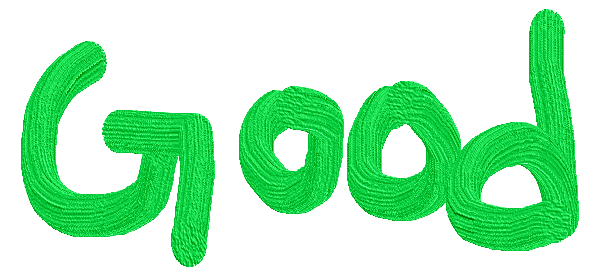
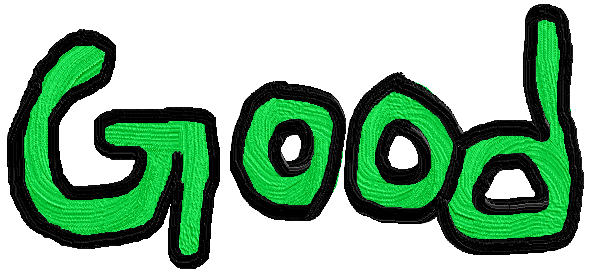
Update Score texture and add HP in Level 0,1,2,3

Changed region(s): [[0.0, 0.0, 0.9917, 0.9855]]

diff --git a/BIT_SAVER/Game/Levels/Level2.cpp b/BIT_SAVER/Game/Levels/Level2.cpp
@@ -17,6 +17,7 @@ Author: Jaewoo.choi, Hyun Kang
 #include"../Objects/Background.h"
 #include"../Levels/State.h"
 #include "../Objects/EnergyBar.h"
+#include "../Objects/EnergyBarContainer.h"
 #include "../Objects/stage_bar.h"
 #include"../../Engine/Sprite/GameParticles.h"
 #include"../Objects/Score.h"
@@ -36,6 +37,7 @@ Level2::Level2() :
 	notebox = nullptr;
 	backPtr = nullptr;
 	energyBar = nullptr;
+	energyBarContainer = nullptr;
 	stageBar = nullptr;
 	feverBar = nullptr;
 	PcheckBox1 = nullptr;
@@ -56,7 +58,8 @@ void Level2::Load()
 	trackPtr = new Track(SOUND_NUM::DIOMA);
 	notebox = new Note_box({ -4,0 });
 	bossPtr = new Boss({ 15,-5 });
-	energyBar = new EnergyBar({ -4,1.2 });
+	energyBar = new EnergyBar({ -7.5,7.5 });
+	energyBarContainer = new EnergyBarContainer({ -7.5,7.5 });
 	camera = new Camera({ 0,0 });
 	PcheckBox1 = new CheckBox({ -4.4,0 }, 0);
 	PcheckBox2 = new CheckBox({ -3.2,0 }, 0);
@@ -85,6 +88,7 @@ void Level2::Load()
 	gameObjectManager->Add(notebox);
 	gameObjectManager->Add(bossPtr);
 	gameObjectManager->Add(energyBar);
+	gameObjectManager->Add(energyBarContainer);
 
 	gameObjectManager->Add(PcheckBox1);
 	gameObjectManager->Add(PcheckBox2);
@@ -176,6 +180,7 @@ void Level2::Unload()
 	bossPtr = nullptr;
 	backPtr = nullptr;
 	energyBar = nullptr;
+	energyBarContainer = nullptr;
 	stageBar = nullptr;
 	gameObjectManager->Unload();
 	if (Engine::GetMusic().isPlaying(SOUND_NUM::DIOMA) == true)

diff --git a/BIT_SAVER/Game/Levels/Level3.cpp b/BIT_SAVER/Game/Levels/Level3.cpp
@@ -17,6 +17,7 @@ Author: Jaewoo.choi, Sunwoo Lee
 #include"../Objects/Background.h"
 #include"../Levels/State.h"
 #include "../Objects/EnergyBar.h"
+#include "../Objects/EnergyBarContainer.h"
 #include "../Objects/stage_bar.h"
 #include"../../Engine/Sprite/GameParticles.h"
 #include"../Objects/Score.h"
@@ -36,6 +37,7 @@ Level3::Level3() :
 	notebox = nullptr;
 	backPtr = nullptr;
 	energyBar = nullptr;
+	energyBarContainer = nullptr;
 	stageBar = nullptr;
 	feverBar = nullptr;
 	PcheckBox1 = nullptr;
@@ -56,7 +58,8 @@ void Level3::Load()
 	trackPtr = new Track(SOUND_NUM::ENERGY);
 	notebox = new Note_box({ -4,0 });
 	bossPtr = new Boss({ 15,-5 });
-	energyBar = new EnergyBar({ -4,1.2 });
+	energyBar = new EnergyBar({ -7.5,7.5 });
+	energyBarContainer = new EnergyBarContainer({ -7.5,7.5 });
 	camera = new Camera({ 0,0 });
 	PcheckBox1 = new CheckBox({ -4.4,0 }, 0);
 	PcheckBox2 = new CheckBox({ -3.2,0 }, 0);
@@ -86,6 +89,7 @@ void Level3::Load()
 	gameObjectManager->Add(notebox);
 	gameObjectManager->Add(bossPtr);
 	gameObjectManager->Add(energyBar);
+	gameObjectManager->Add(energyBarContainer);
 
 	gameObjectManager->Add(PcheckBox1);
 	gameObjectManager->Add(PcheckBox2);
@@ -174,6 +178,7 @@ void Level3::Unload()
 	bossPtr = nullptr;
 	backPtr = nullptr;
 	energyBar = nullptr;
+	energyBarContainer = nullptr;
 	stageBar = nullptr;
 	if (Engine::GetMusic().isPlaying(SOUND_NUM::ENERGY) == true)
 	{

diff --git a/BIT_SAVER/Game/Levels/Level0.cpp b/BIT_SAVER/Game/Levels/Level0.cpp
@@ -17,6 +17,7 @@ Author:  Hyun Kang , Hyosang Jung
 #include"../Objects/Background.h"
 #include"../Levels/State.h"
 #include "../Objects/EnergyBar.h"
+#include "../Objects/EnergyBarContainer.h"
 #include "../Objects/stage_bar.h"
 #include"../../Engine/Sprite/GameParticles.h"
 #include"../Objects/Score.h"
@@ -35,6 +36,7 @@ Level0::Level0() :
 	notebox = nullptr;
 	backPtr = nullptr;
 	energyBar = nullptr;
+	energyBarContainer = nullptr;
 	stageBar = nullptr;
 	feverBar = nullptr;
 	gamestate = LEVEL0_STATE::EXTRA;
@@ -49,7 +51,8 @@ void Level0::Load()
 	trackPtr = new Track(SOUND_NUM::DISCO);
 	notebox = new Note_box({ -4,0 });
 	bossPtr = new Boss({ 15,-5 });
-	energyBar = new EnergyBar({ -4,1.2 });
+	energyBar = new EnergyBar({ -7.5,7.5 });
+	energyBarContainer = new EnergyBarContainer({ -7.5,7.5 });
 	camera = new Camera({ 0,0 });
 
 	stageBar = new Stage_bar({ -10,9 }, 110, 82);   // total music time 204  ,  extra time 82
@@ -73,7 +76,7 @@ void Level0::Load()
 	gameObjectManager->Add(notebox);
 	gameObjectManager->Add(bossPtr);
 	gameObjectManager->Add(energyBar);
-
+	gameObjectManager->Add(energyBarContainer);
 
 	gameObjectManager->Add(stageBar);
 	gameObjectManager->Add(trackPtr);
@@ -155,6 +158,7 @@ void Level0::Unload()
 	bossPtr = nullptr;
 	backPtr = nullptr;
 	energyBar = nullptr;
+	energyBarContainer = nullptr;
 	stageBar = nullptr;
 	gameObjectManager->Unload();
 

diff --git a/BIT_SAVER/Game/Levels/Level2.h b/BIT_SAVER/Game/Levels/Level2.h
@@ -20,6 +20,7 @@ class Track;
 class Note_box;
 class Background;
 class EnergyBar;
+class EnergyBarContainer;
 class Stage_bar;
 class GLText;
 class Fever_bar;
@@ -58,6 +59,7 @@ private:
 	Note_box* notebox;
 	Background* backPtr;
 	EnergyBar* energyBar;
+	EnergyBarContainer* energyBarContainer;
 	Stage_bar* stageBar;
 	Fever_bar* feverBar;
 	CheckBox* PcheckBox1;

diff --git a/BIT_SAVER/Game/Levels/Level3.h b/BIT_SAVER/Game/Levels/Level3.h
@@ -20,6 +20,7 @@ class Track;
 class Note_box;
 class Background;
 class EnergyBar;
+class EnergyBarContainer;
 class Stage_bar;
 class GLText;
 class Fever_bar;
@@ -58,6 +59,7 @@ private:
 	Note_box* notebox;
 	Background* backPtr;
 	EnergyBar* energyBar;
+	EnergyBarContainer* energyBarContainer;
 	Stage_bar* stageBar;
 	Fever_bar* feverBar;
 	CheckBox* PcheckBox1;

diff --git a/BIT_SAVER/Game/Levels/Level0.h b/BIT_SAVER/Game/Levels/Level0.h
@@ -20,6 +20,7 @@ class Track;
 class Note_box;
 class Background;
 class EnergyBar;
+class EnergyBarContainer;
 class Stage_bar;
 class GLText;
 class Fever_bar;
@@ -57,6 +58,7 @@ private:
 	Note_box* notebox;
 	Background* backPtr;
 	EnergyBar* energyBar;
+	EnergyBarContainer* energyBarContainer;
 	Stage_bar* stageBar;
 	Fever_bar* feverBar;
 	Camera* camera;
